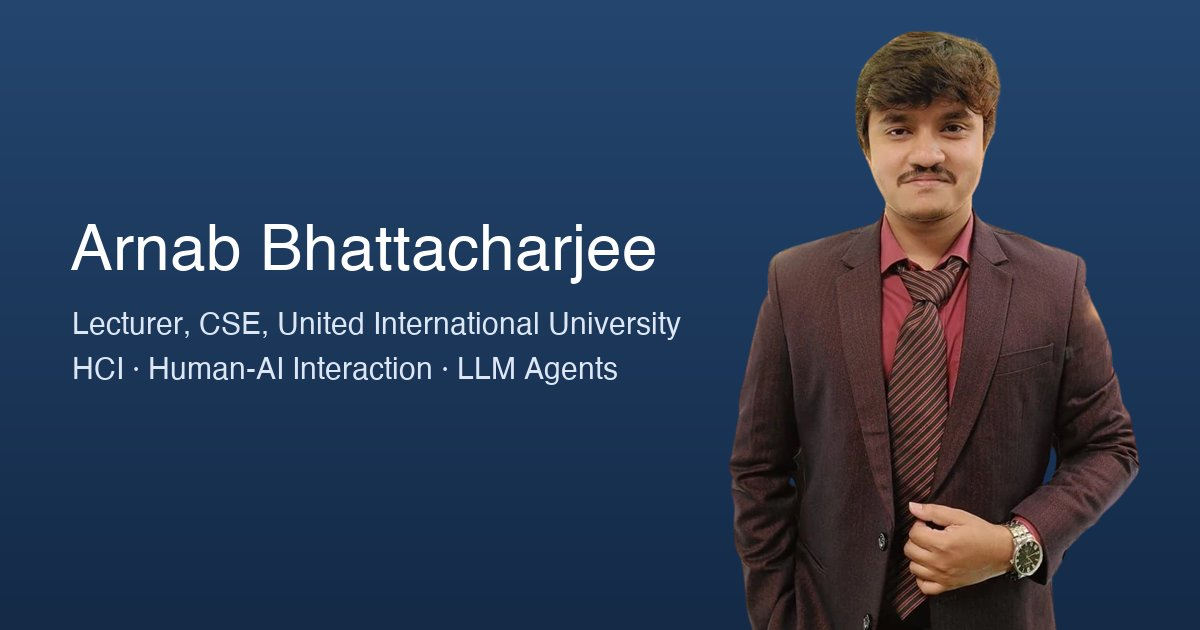
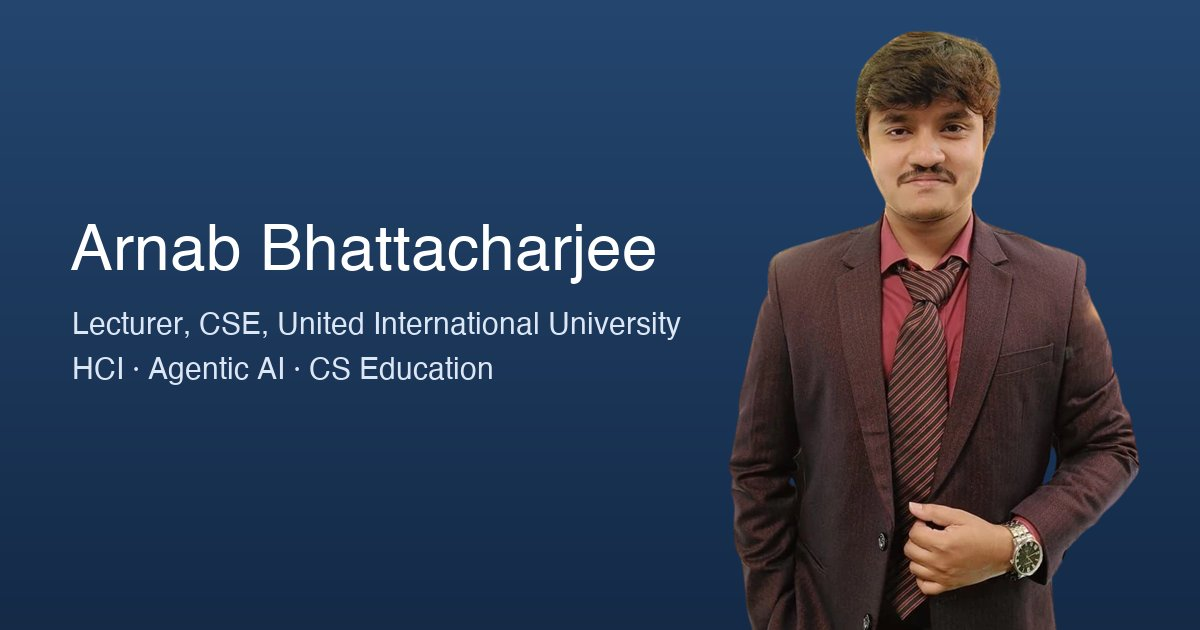
New About text, CSEd focus, SimuDeck featured, badge links to faculty page

Changed region(s): [[0.1233, 0.5429, 0.5242, 0.6032]]

diff --git a/index.html b/index.html
@@ -4,11 +4,11 @@
   <meta charset="utf-8">
   <meta name="viewport" content="width=device-width, initial-scale=1">
   <title>Arnab Bhattacharjee</title>
-  <meta name="description" content="Arnab Bhattacharjee, Lecturer in Computer Science and Engineering at United International University. Research in Human-Computer Interaction, human-AI interaction, and LLM agents.">
+  <meta name="description" content="Arnab Bhattacharjee, Lecturer in Computer Science and Engineering at United International University. Research in Human-Computer Interaction, agentic AI, and computer science education.">
   <meta name="author" content="Arnab Bhattacharjee">
   <meta name="theme-color" content="#1e3a5f">
   <meta property="og:title" content="Arnab Bhattacharjee">
-  <meta property="og:description" content="Lecturer, CSE, United International University. Research in HCI, human-AI interaction, and LLM agents.">
+  <meta property="og:description" content="Lecturer, CSE, United International University. Research in HCI, agentic AI, and computer science education.">
   <meta property="og:type" content="website">
   <meta property="og:url" content="https://arnabbndc.github.io/">
   <meta property="og:image" content="https://arnabbndc.github.io/assets/img/og.jpg">
@@ -29,7 +29,7 @@
   <link rel="preconnect" href="https://fonts.gstatic.com" crossorigin>
   <link href="https://fonts.googleapis.com/css2?family=Inter:wght@400;500;600;700&family=Plus+Jakarta+Sans:wght@600;700;800&display=swap" rel="stylesheet">
   <link rel="stylesheet" href="https://cdnjs.cloudflare.com/ajax/libs/font-awesome/6.5.2/css/all.min.css" referrerpolicy="no-referrer">
-  <link rel="stylesheet" href="assets/css/style.css?v=9709f5cf">
+  <link rel="stylesheet" href="assets/css/style.css?v=8808122d">
 </head>
 <body>
 
@@ -67,12 +67,12 @@
 <section class="hero" id="home">
   <div class="container hero-grid">
     <div class="hero-text reveal">
-      <span class="eyebrow"><i class="fa-solid fa-building-columns"></i>Lecturer, CSE · <span class="long">United International University</span><span class="short">UIU</span></span>
+      <a class="eyebrow" href="https://cse.uiu.ac.bd/faculty/arnab-bhattacharjee/"><i class="fa-solid fa-building-columns"></i>Lecturer, CSE · <span class="long">United International University</span><span class="short">UIU</span><i class="fa-solid fa-arrow-up-right-from-square ext"></i></a>
       <h1>Arnab Bhattacharjee</h1>
       <p class="rotator">Researching <span class="word" id="rotator">Human-Computer Interaction</span></p>
-      <p class="lead">I study how people work with AI agents, and I build agentic systems that people can direct and trust. My work combines qualitative HCI methods with building and evaluating LLM-based systems.</p>
+      <p class="lead">I am interested in working on HCI, agentic AI, Computer Science Education, and systems, using agentic AI to solve real human and social problems.</p>
       <div class="hero-cta">
-        <a class="btn btn-primary" href="cv/Arnab_Bhattacharjee_CV.pdf?v=c721c340"><i class="fa-solid fa-file-arrow-down"></i> Download CV</a>
+        <a class="btn btn-primary" href="cv/Arnab_Bhattacharjee_CV.pdf?v=61ba5ea1"><i class="fa-solid fa-file-arrow-down"></i> Download CV</a>
         <a class="btn" href="#contact"><i class="fa-regular fa-envelope"></i> Get in touch</a>
       </div>
       <ul class="socials">
@@ -102,12 +102,13 @@
     </div>
     <div class="about-text reveal">
       <h2 class="about-title">About</h2>
-      <p>I am a Lecturer in the Department of Computer Science and Engineering at <a href="https://www.uiu.ac.bd/">United International University</a> in Dhaka, Bangladesh. I received my B.Sc. in Computer Science and Engineering from <a href="https://www.buet.ac.bd/">Bangladesh University of Engineering and Technology (BUET)</a> in 2025.</p>
-      <p>My research is in Human-Computer Interaction (HCI). I am interested in how people work with AI agents, and in building agentic systems that people can direct and trust. I am also interested in agentic AI and systems more broadly. My work combines qualitative HCI methods, such as semi-structured interviews, reflexive thematic analysis, and focus group discussions, with building and evaluating LLM-based systems.</p>
+      <p>I am a Lecturer in the Department of Computer Science and Engineering at <a href="https://www.uiu.ac.bd/">United International University (UIU)</a> in Dhaka, Bangladesh. I am interested in working on Human-Computer Interaction (HCI), agentic AI, Computer Science Education (CSEd), and systems, with a focus on using agentic AI to solve real human and social problems.</p>
+      <p>I listen to people's experiences, needs, and concerns, and turn them into the design of AI systems that people can direct and trust. My current work applies this to education, where I build agentic AI systems that help computer science educators create their lecture material. I received my B.Sc. in Computer Science and Engineering from <a href="https://www.buet.ac.bd/">Bangladesh University of Engineering and Technology (BUET)</a>.</p>
       <ul class="interest-list">
         <li><i class="fa-solid fa-hand-pointer"></i> Human-Computer Interaction</li>
+        <li><i class="fa-solid fa-robot"></i> Agentic AI</li>
+        <li><i class="fa-solid fa-chalkboard-user"></i> Computer Science Education (CSEd)</li>
         <li><i class="fa-solid fa-users"></i> Human-AI Interaction</li>
-        <li><i class="fa-solid fa-robot"></i> LLM Agents</li>
         <li><i class="fa-solid fa-server"></i> Systems</li>
       </ul>
     </div>
@@ -122,10 +123,10 @@
     </div>
 
     <div class="research-grid">
-      <article class="card research-card reveal">
-        <div class="icon"><i class="fa-solid fa-people-arrows"></i></div>
+      <article class="card research-card featured reveal">
+        <div class="feat-head"><div class="icon"><i class="fa-solid fa-people-arrows"></i></div><span class="focus-label">Current focus</span></div>
         <h3>Human-AI Co-Creation for Technical Lecture Content</h3>
-        <ul class="tags"><li>HCI</li><li>Human-AI Co-Creation</li><li>Agentic AI</li></ul>
+        <ul class="tags"><li>HCI</li><li>Agentic AI</li><li>CS Education</li><li>Human-AI Co-Creation</li></ul>
         <p>We investigated how computer science educators author technical lecture content with generative AI tools. In a formative study, we conducted semi-structured interviews with university educators and analyzed them using reflexive thematic analysis to identify their challenges and derive design goals. Guided by these goals, we built an agentic pipeline that generates technical lecture content under the educator's direction. We then conducted a qualitative user evaluation through focus group discussions (FGDs) with educators.</p>
         <div class="flow-label">Method</div>
         <ul class="flow" aria-label="Research method">
@@ -133,18 +134,6 @@
           <li>Reflexive thematic analysis</li><li class="arrow" aria-hidden="true"><i class="fa-solid fa-arrow-right"></i></li>
           <li>Agentic pipeline</li><li class="arrow" aria-hidden="true"><i class="fa-solid fa-arrow-right"></i></li>
           <li>Focus group discussions</li>
-        </ul>
-      </article>
-
-      <article class="card research-card reveal">
-        <div class="icon"><i class="fa-solid fa-language"></i></div>
-        <h3>Language Effects on LLM Web Agents</h3>
-        <ul class="tags"><li>LLM Agents</li><li>Web Agents</li><li>Multilingual Evaluation</li></ul>
-        <p>Most benchmarks for LLM web agents are English-only. We evaluated an HTML-based LLM web agent across several widely spoken languages in two settings: a controlled offline benchmark in which the page structure stays fixed and only the language changes, and live task execution on real localized websites. Alongside task performance, we quantified how much of the agent's observation actually changes with the language. Performance stayed close to English even when most of the page text was rewritten, while non-English pages consumed a substantially larger share of the model's context budget.</p>
-        <div class="flow-label">Settings</div>
-        <ul class="flow" aria-label="Evaluation settings">
-          <li>Controlled offline benchmark</li><li class="arrow" aria-hidden="true"><i class="fa-solid fa-plus"></i></li>
-          <li>Live localized websites</li>
         </ul>
       </article>
 
@@ -172,6 +161,12 @@
             <a href="https://cmu-agent-workshop.github.io/Previous_Schedule_2024/posters"><i class="fa-solid fa-arrow-up-right-from-square"></i> Workshop</a>
           </div>
         </div>
+      </article>
+
+      <article class="card research-card compact reveal">
+        <h3>Language Effects on LLM Web Agents</h3>
+        <ul class="tags"><li>LLM Agents</li><li>Web Agents</li><li>Multilingual Evaluation</li></ul>
+        <p>Most benchmarks for LLM web agents are English-only. We evaluated an HTML-based LLM web agent across several widely spoken languages in two settings: a controlled offline benchmark in which the page structure stays fixed and only the language changes, and live task execution on real localized websites. Alongside task performance, we quantified how much of the agent's observation actually changes with the language. Performance stayed close to English even when most of the page text was rewritten, while non-English pages consumed a substantially larger share of the model's context budget.</p>
       </article>
     </div>
   </div>
@@ -425,7 +420,7 @@
           <li><a href="mailto:arnabbndc@gmail.com"><i class="fa-solid fa-envelope"></i><span>arnabbndc@gmail.com<small>Personal email</small></span></a></li>
           <li><a href="mailto:arnab@cse.uiu.ac.bd"><i class="fa-solid fa-building-columns"></i><span>arnab@cse.uiu.ac.bd<small>University email</small></span></a></li>
           <li><a href="https://www.linkedin.com/in/arnab-bhattacharjee-3600b6340/"><i class="fa-brands fa-linkedin-in"></i><span>LinkedIn<small>in/arnab-bhattacharjee-3600b6340</small></span></a></li>
-          <li><a href="cv/Arnab_Bhattacharjee_CV.pdf?v=c721c340"><i class="fa-solid fa-file-arrow-down"></i><span>Curriculum Vitae<small>PDF</small></span></a></li>
+          <li><a href="cv/Arnab_Bhattacharjee_CV.pdf?v=61ba5ea1"><i class="fa-solid fa-file-arrow-down"></i><span>Curriculum Vitae<small>PDF</small></span></a></li>
         </ul>
       </div>
       <div class="contact-img">
@@ -451,6 +446,6 @@
 
 <button class="to-top" id="to-top" type="button" aria-label="Back to top"><i class="fa-solid fa-arrow-up"></i></button>
 
-<script src="assets/js/main.js?v=50984718" defer></script>
+<script src="assets/js/main.js?v=c7935011" defer></script>
 </body>
 </html>

diff --git a/assets/css/style.css b/assets/css/style.css
@@ -153,6 +153,9 @@ img { max-width: 100%; display: block; }
   color: var(--accent); font-size: 14.5px; font-weight: 600;
 }
 .eyebrow .short { display: none; }
+a.eyebrow { transition: border-color .2s, transform .2s; }
+a.eyebrow:hover { text-decoration: none; transform: translateY(-1px); border-color: var(--accent); }
+.eyebrow i.ext { font-size: 11px; margin: 0 0 0 7px; opacity: .8; }
 .eyebrow i { margin-right: 6px; }
 .eyebrow .dot { width: 8px; height: 8px; border-radius: 50%; background: var(--accent-3); box-shadow: 0 0 0 4px color-mix(in srgb, var(--accent-3) 25%, transparent); }
 .hero h1 { font-size: clamp(38px, 5.4vw, 62px); font-weight: 800; letter-spacing: -1px; margin: 20px 0 14px; }
@@ -271,6 +274,13 @@ section.alt { background: var(--bg-alt); }
 .flow li.arrow { background: none; border: none; padding: 0; color: var(--accent); }
 .flow-label { font-size: 12px; font-weight: 700; letter-spacing: 1.5px; text-transform: uppercase; color: var(--muted); margin-top: 6px; }
 
+.research-card.featured { grid-column: 1 / -1; border-color: color-mix(in srgb, var(--accent) 35%, var(--border)); }
+.research-card.featured p { font-size: 17px; }
+.feat-head { display: flex; align-items: center; justify-content: space-between; gap: 12px; }
+.focus-label { font-size: 12.5px; font-weight: 700; letter-spacing: 1px; text-transform: uppercase; color: var(--accent); background: var(--accent-soft); padding: 5px 12px; border-radius: 999px; }
+.research-card.compact { grid-column: 1 / -1; padding: 22px 26px; gap: 10px; }
+.research-card.compact h3 { font-size: 18px; }
+.research-card.compact p { font-size: 15px; }
 .thesis-card { grid-column: 1 / -1; padding: 30px; display: grid; grid-template-columns: 1.3fr 1fr; gap: 30px; }
 .thesis-card h3 { font-size: 21px; margin: 6px 0 6px; }
 .thesis-card .meta { color: var(--muted); font-size: 15px; margin-bottom: 12px; }

diff --git a/assets/js/main.js b/assets/js/main.js
@@ -71,7 +71,7 @@
   }
 
   // Rotating research areas in the hero
-  var words = ['Human-Computer Interaction', 'Human-AI Interaction', 'LLM Agents', 'Agentic AI'];
+  var words = ['Human-Computer Interaction', 'Agentic AI', 'CS Education', 'Human-AI Interaction'];
   var rot = document.getElementById('rotator');
   if (rot && !reduceMotion) {
     var wi = 0, ci = words[0].length, deleting = true;
